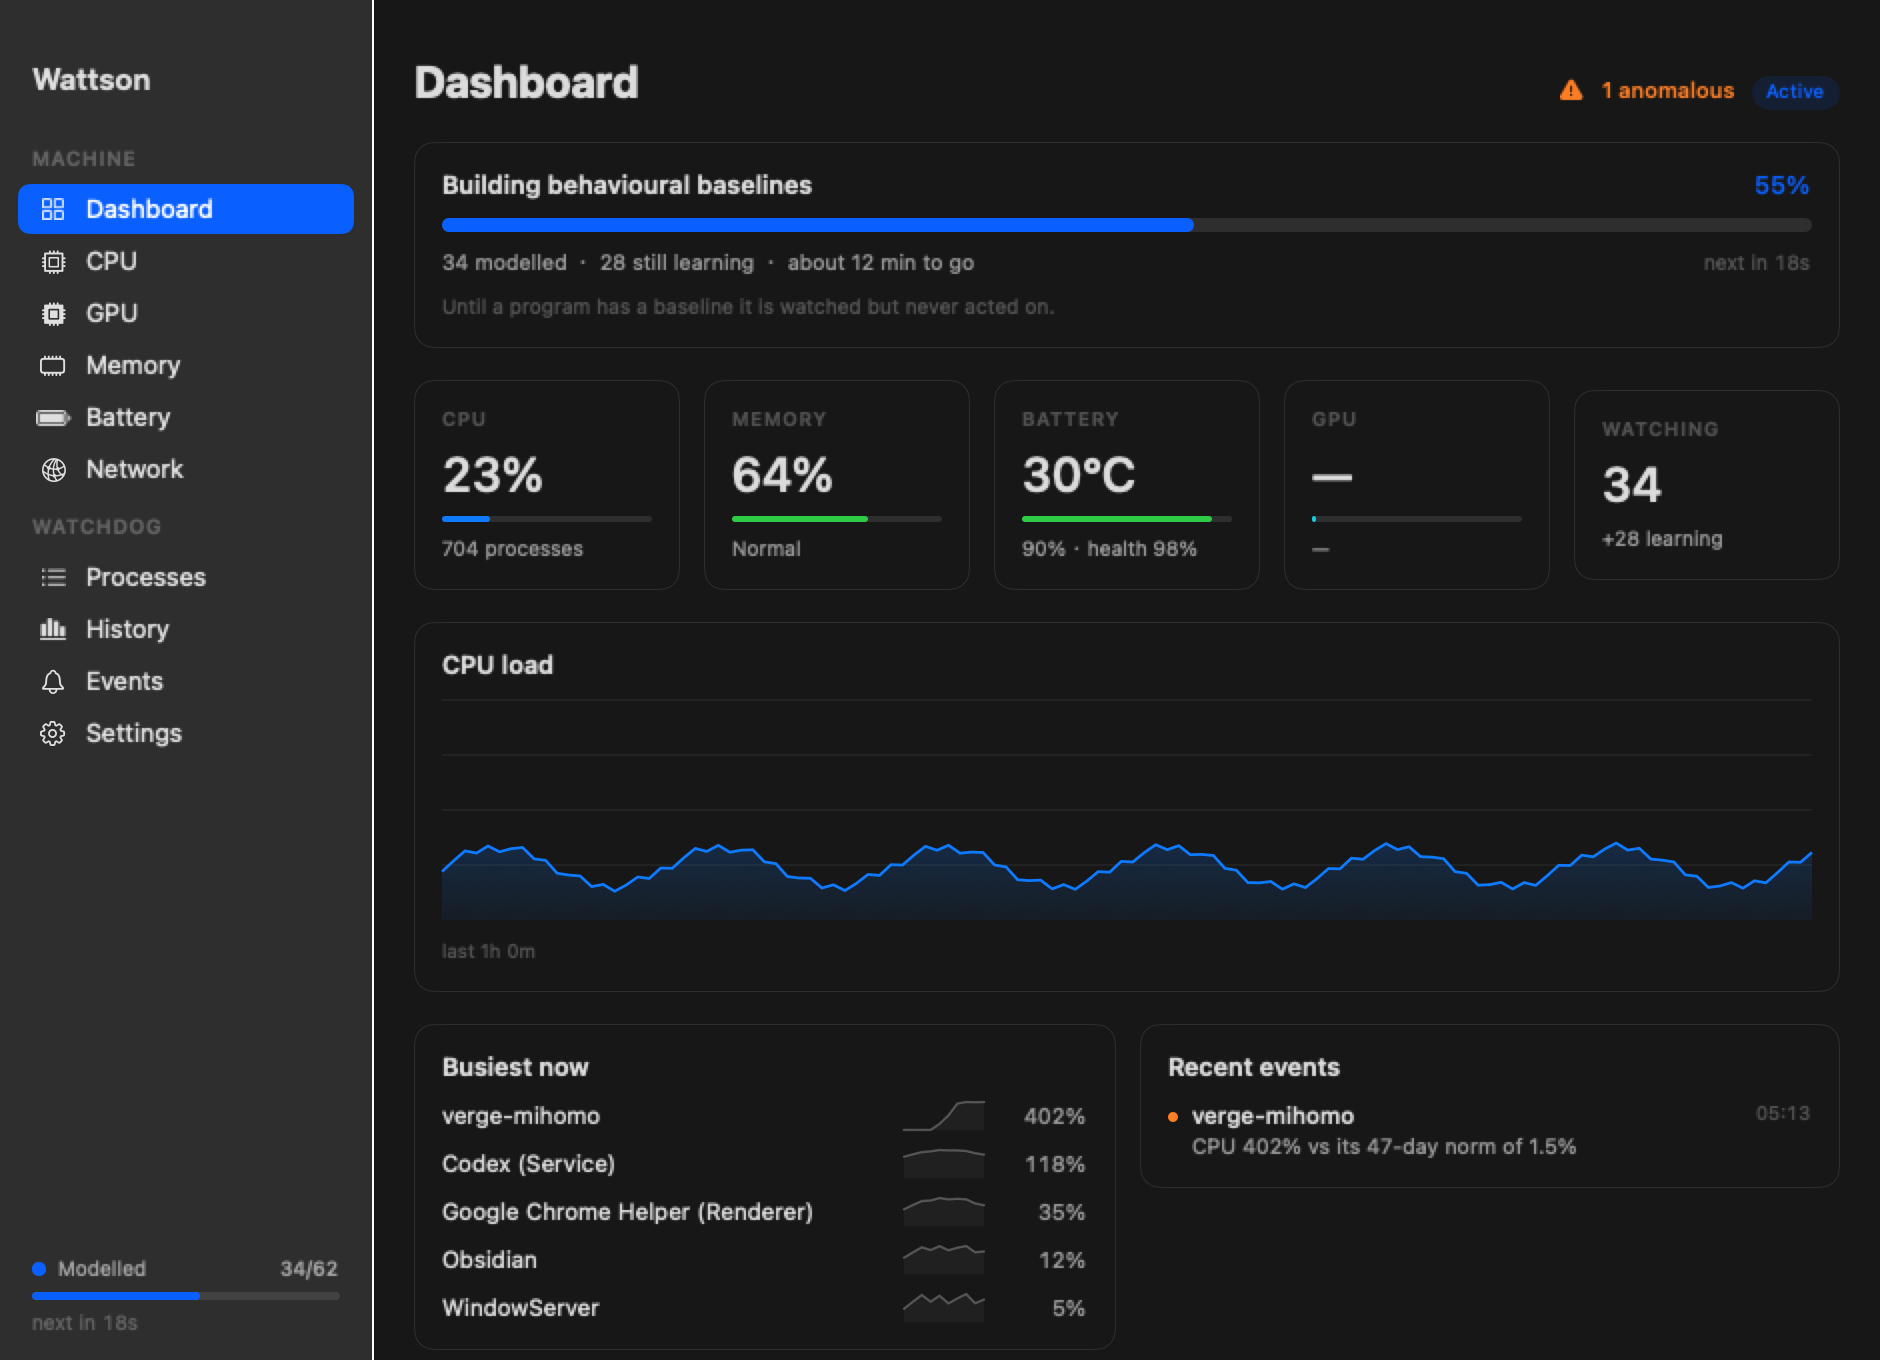
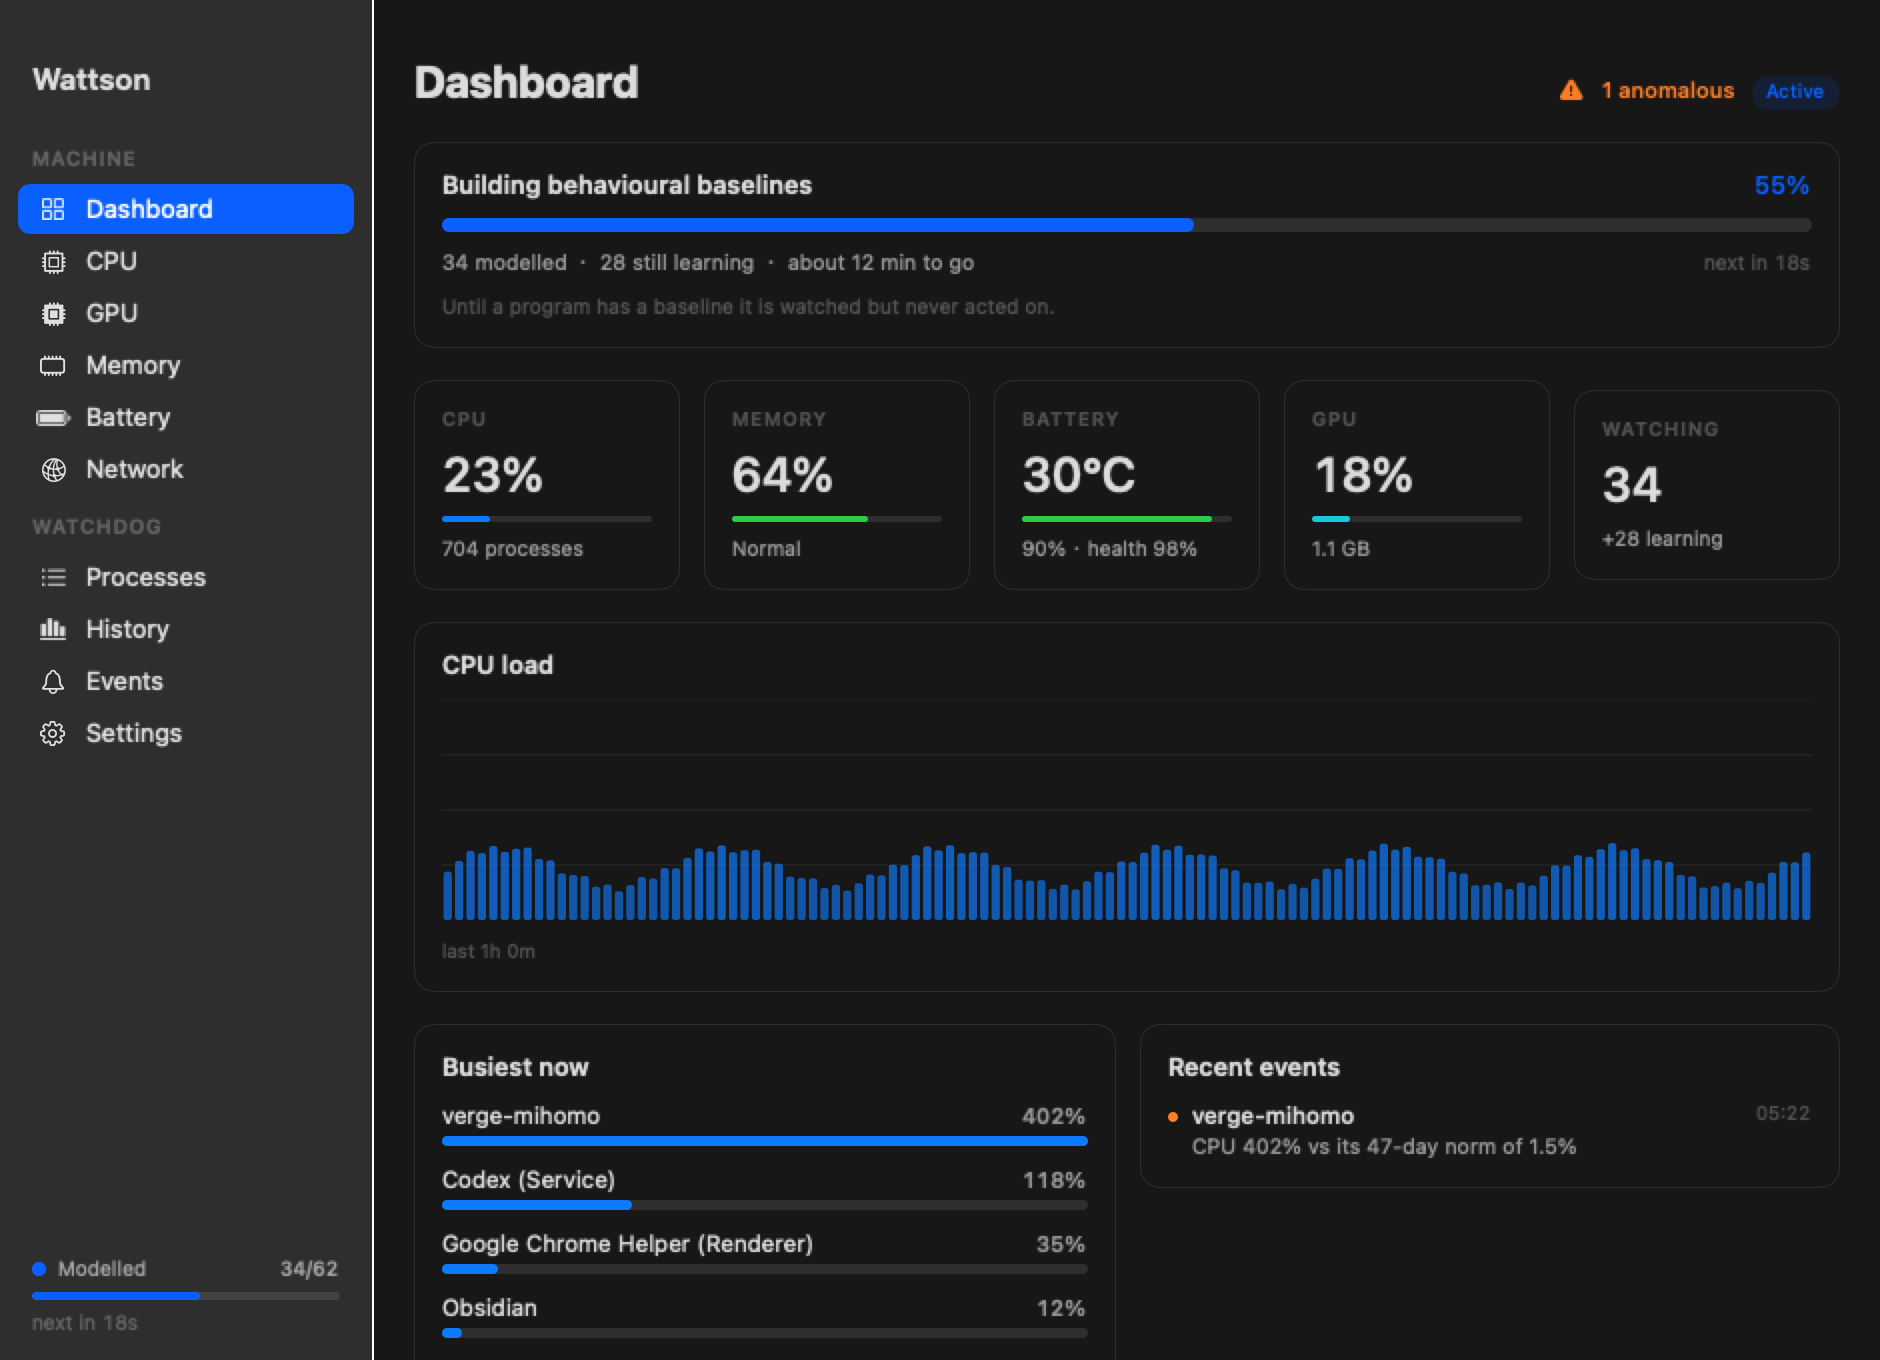
Bars instead of lines: legible history charts and ranked process bars
The load charts were area fills, which look like a nearly flat line until a
couple of hundred samples have accumulated — so for the first several minutes
after launch they showed nothing readable. And the "busiest now" lists were
plain text, leaving the ranking to be worked out by reading numbers.

History is now drawn as columns, on a Canvas so a few hundred samples cost one
draw pass rather than that many views. Individual readings stay legible from
the very first one, and column opacity tracks height so the eye picks out the
hot stretches without reading the axis.

Top-process lists are horizontal bars scaled to the largest entry, which is the
comparison those lists exist to make.

Changed region(s): [[0.216, 0.6176, 0.9872, 0.6794], [0.216, 0.8338, 0.5862, 0.9882], [0.6787, 0.3397, 0.7713, 0.3706]]

diff --git a/Sources/wattson/UI/Pages.swift b/Sources/wattson/UI/Pages.swift
@@ -40,7 +40,7 @@ struct OverviewPage: View {
             }
 
             Card(title: L("CPU load", "CPU 负载")) {
-                AreaChart(values: model.state.cpuTrail, tint: .cpuTint)
+                BarChart(values: model.state.cpuTrail, tint: .cpuTint)
                     .frame(height: 110)
                 Text(model.trailSpanText)
                     .font(.ui(9.5)).foregroundStyle(Color.inkFaint)
@@ -48,8 +48,12 @@ struct OverviewPage: View {
 
             HStack(alignment: .top, spacing: 12) {
                 Card(title: L("Busiest now", "当前占用最高")) {
-                    ForEach(model.topRows(5)) { row in
-                        CompactProcessRow(row: row)
+                    let rows = model.topRows(6)
+                    let peak = rows.first?.cpuPercent ?? 1
+                    ForEach(rows) { row in
+                        ProcessBar(name: row.command, value: row.cpuPercent,
+                                   caption: String(format: "%.0f%%", row.cpuPercent),
+                                   peak: peak)
                     }
                 }
                 Card(title: L("Recent events", "最近事件")) {
@@ -126,7 +130,7 @@ struct CPUPage: View {
             }
 
             Card(title: L("Load history", "负载历史")) {
-                AreaChart(values: model.state.cpuTrail, tint: .cpuTint)
+                BarChart(values: model.state.cpuTrail, tint: .cpuTint)
                     .frame(height: 130)
                 Text(model.trailSpanText)
                     .font(.ui(9.5)).foregroundStyle(Color.inkFaint)
@@ -206,7 +210,7 @@ struct GPUPage: View {
 
                 if model.state.gpuTrail.count > 1 {
                     Card(title: L("GPU history", "GPU 历史")) {
-                        AreaChart(values: model.state.gpuTrail, tint: .coreTint)
+                        BarChart(values: model.state.gpuTrail, tint: .coreTint)
                             .frame(height: 120)
                         Text(model.trailSpanText)
                             .font(.ui(9.5)).foregroundStyle(Color.inkFaint)
@@ -279,7 +283,7 @@ struct MemoryPage: View {
             }
 
             Card(title: L("Memory history", "内存历史")) {
-                AreaChart(values: model.state.memoryTrail, tint: .memoryTint)
+                BarChart(values: model.state.memoryTrail, tint: .memoryTint)
                     .frame(height: 110)
                 HStack {
                     Text(model.trailSpanText)
@@ -291,14 +295,12 @@ struct MemoryPage: View {
             }
 
             Card(title: L("Largest resident", "占用内存最多")) {
-                ForEach(model.topByMemory(8)) { row in
-                    HStack {
-                        Text(row.command).font(.ui(11.5)).foregroundStyle(Color.ink)
-                            .lineLimit(1).truncationMode(.middle)
-                        Spacer()
-                        Text(formatBytes(row.memBytes))
-                            .font(.figure(11)).foregroundStyle(Color.inkMuted)
-                    }
+                let rows = model.topByMemory(8)
+                let peak = Double(rows.first?.memBytes ?? 1)
+                ForEach(rows) { row in
+                    ProcessBar(name: row.command, value: Double(row.memBytes),
+                               caption: formatBytes(row.memBytes), peak: peak,
+                               tint: .memoryTint)
                 }
             }
         }
@@ -347,9 +349,9 @@ struct BatteryPage: View {
 
                 if model.state.temperatureTrail.count > 1 {
                     Card(title: L("Temperature history", "温度历史")) {
-                        AreaChart(values: model.state.temperatureTrail,
-                                  tint: model.temperatureTint(battery.temperature),
-                                  ceiling: 50, guides: [20, 30, 35, 40, 50])
+                        BarChart(values: model.state.temperatureTrail,
+                                 tint: model.temperatureTint(battery.temperature),
+                                 ceiling: 50, guides: [30, 35, 40])
                             .frame(height: 100)
                         HStack {
                             Text(model.trailSpanText)
@@ -367,9 +369,9 @@ struct BatteryPage: View {
                     }
                     if model.state.powerTrail.count > 1 {
                         Card(title: L("Power draw", "功率")) {
-                            AreaChart(values: model.state.powerTrail, tint: .alertTint,
-                                      ceiling: max(model.state.powerTrail.max() ?? 30, 5),
-                                      guides: [])
+                            BarChart(values: model.state.powerTrail, tint: .alertTint,
+                                     ceiling: max(model.state.powerTrail.max() ?? 30, 5),
+                                     guides: [])
                                 .frame(height: 74)
                             Text(String(format: L("now %.1f W", "当前 %.1f W"),
                                         abs(battery.watts)))

diff --git a/Sources/wattson/UI/Charts.swift b/Sources/wattson/UI/Charts.swift
@@ -325,3 +325,85 @@ struct NextSampleCountdown: View {
         return L("next in \(remaining)s", "\(remaining) 秒后采样")
     }
 }
+
+
+/// Time series as columns rather than a filled line.
+///
+/// Drawn on a Canvas because a series can hold a few hundred samples, and a
+/// Rectangle per sample would build that many views on every refresh. Columns
+/// beat an area chart here: with only a handful of readings an area chart is a
+/// nearly flat line, while bars stay individually legible from the first one.
+struct BarChart: View {
+    let values: [Double]
+    var tint: Color = .cpuTint
+    var ceiling: Double = 100
+    var guides: [Double] = [25, 50, 75, 100]
+    /// Draw at least this many slots, so early samples appear at their true
+    /// width instead of stretching to fill the card.
+    var minimumSlots: Int = 60
+
+    var body: some View {
+        Canvas { context, size in
+            for guide in guides {
+                let y = size.height * (1 - min(guide / ceiling, 1))
+                var line = Path()
+                line.move(to: CGPoint(x: 0, y: y))
+                line.addLine(to: CGPoint(x: size.width, y: y))
+                context.stroke(line, with: .color(.gray.opacity(0.18)), lineWidth: 0.5)
+            }
+
+            let slots = max(values.count, minimumSlots)
+            let slot = size.width / CGFloat(slots)
+            let barWidth = max(1, slot * 0.72)
+
+            for (index, value) in values.enumerated() {
+                let ratio = min(max(value / ceiling, 0), 1)
+                let height = max(1, size.height * ratio)
+                let x = CGFloat(index) * slot + (slot - barWidth) / 2
+                let rect = CGRect(x: x, y: size.height - height,
+                                  width: barWidth, height: height)
+                // Taller columns read as hotter, which matches how the eye
+                // already scans the chart.
+                let shade = 0.55 + 0.45 * ratio
+                context.fill(Path(roundedRect: rect, cornerRadius: barWidth / 3),
+                             with: .color(tint.opacity(shade)))
+            }
+        }
+    }
+}
+
+/// One process as a labelled horizontal bar. Ranking is the question these
+/// lists answer, and a bar answers it without reading any numbers.
+struct ProcessBar: View {
+    let name: String
+    let value: Double
+    let caption: String
+    /// The largest value in the list, so bars are comparable to each other.
+    let peak: Double
+    var tint: Color = .cpuTint
+
+    var body: some View {
+        VStack(alignment: .leading, spacing: 3) {
+            HStack(spacing: 8) {
+                Text(name)
+                    .font(.ui(11.5))
+                    .foregroundStyle(Color.ink)
+                    .lineLimit(1)
+                    .truncationMode(.middle)
+                Spacer(minLength: 6)
+                Text(caption)
+                    .font(.figure(11, .medium))
+                    .foregroundStyle(Color.inkMuted)
+            }
+            GeometryReader { geo in
+                ZStack(alignment: .leading) {
+                    Capsule().fill(Color.hairline)
+                    Capsule().fill(tint)
+                        .frame(width: max(2, geo.size.width
+                                          * min(max(value / max(peak, 0.001), 0), 1)))
+                }
+            }
+            .frame(height: 5)
+        }
+    }
+}

diff --git a/Sources/wattson/UI/AppModel.swift b/Sources/wattson/UI/AppModel.swift
@@ -250,6 +250,14 @@ final class AppModel: ObservableObject {
         battery.currentCapacityMAh = 3901
         battery.timeRemainingMinutes = 214
         vitals.battery = battery
+        var gpu = GPUInfo()
+        gpu.deviceUtilization = 18
+        gpu.rendererUtilization = 14
+        gpu.tilerUtilization = 5
+        gpu.inUseMemory = 1_180_000_000
+        gpu.allocatedMemory = 4_278_190_080
+        gpu.name = "Apple M5"
+        vitals.gpu = gpu
 
         let coreLoads = [0.42, 0.38, 0.31, 0.27, 0.19, 0.22, 0.66, 0.58, 0.12, 0.09]
         var state = EngineState()
@@ -263,6 +271,7 @@ final class AppModel: ObservableObject {
         state.memoryTrail = trail(66, 4, 120)
         state.temperatureTrail = trail(31, 4, 120)
         state.powerTrail = trail(14, 6, 120)
+        state.gpuTrail = trail(18, 12, 120)
         state.rows = [
                 ProcessRow(pid: 1, command: "verge-mihomo", cpuPercent: 402.1,
                            memBytes: 320_000_000, usualCPUPercent: 1.5,
